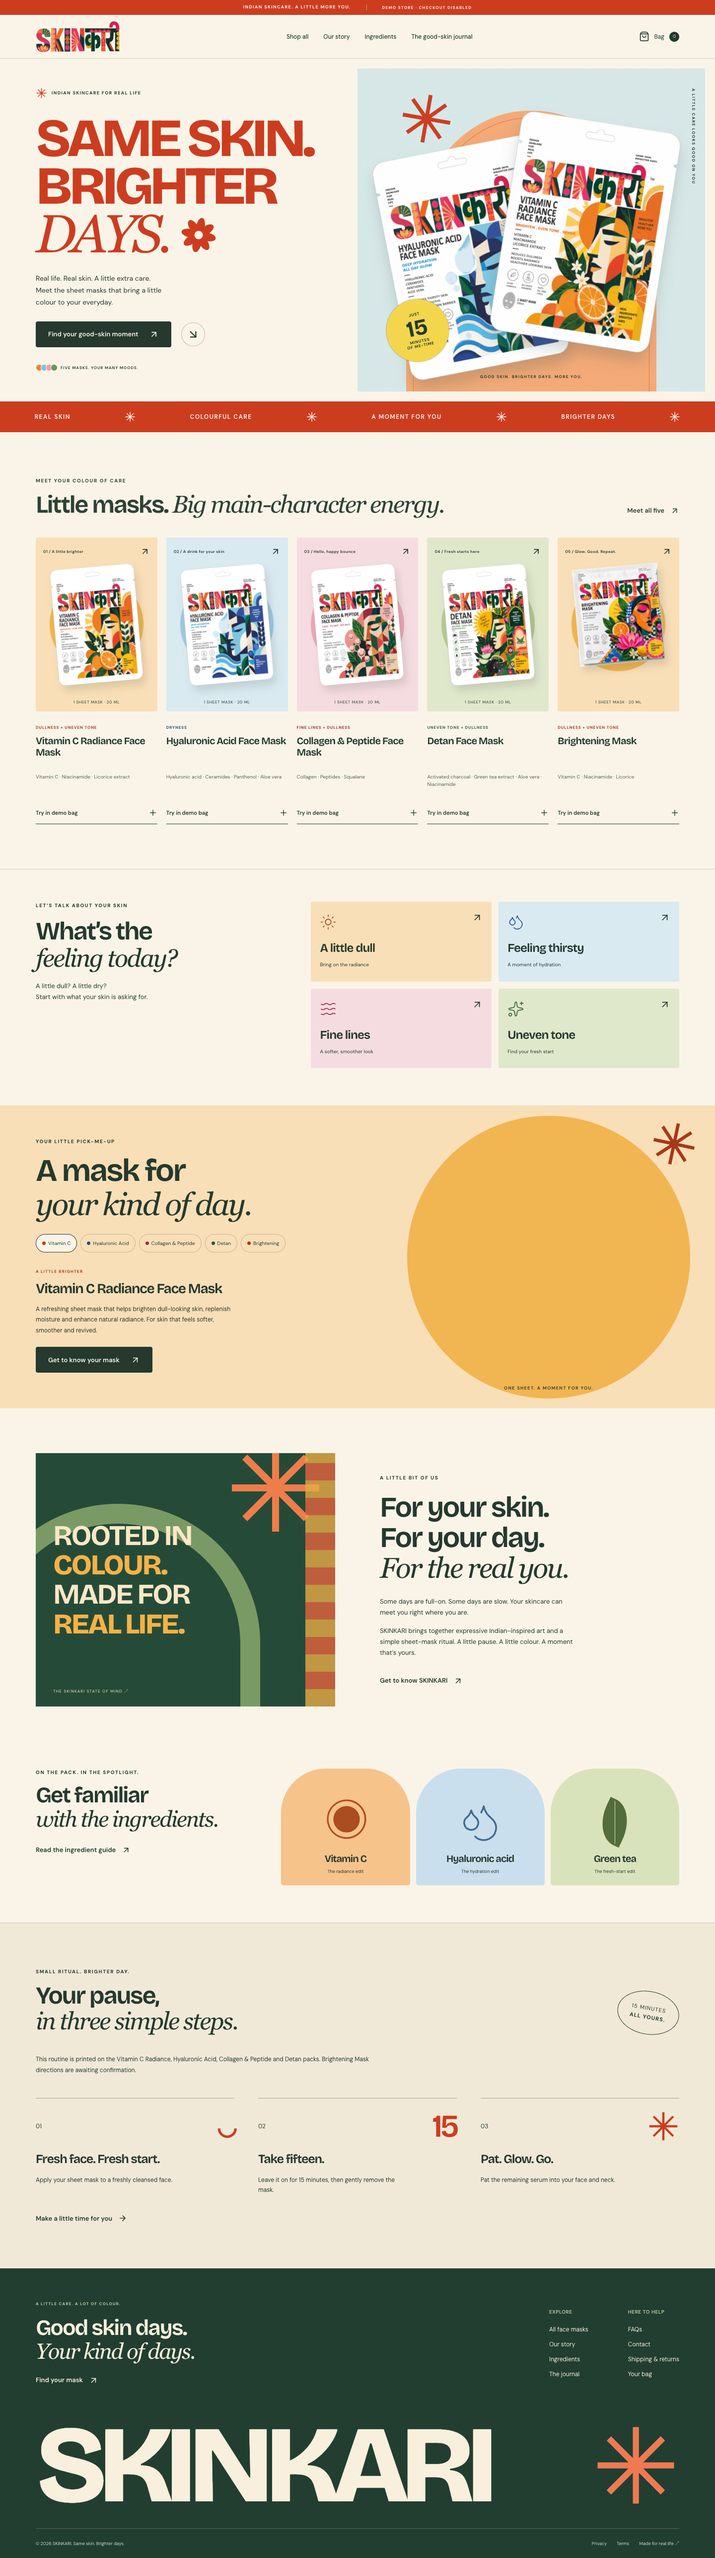
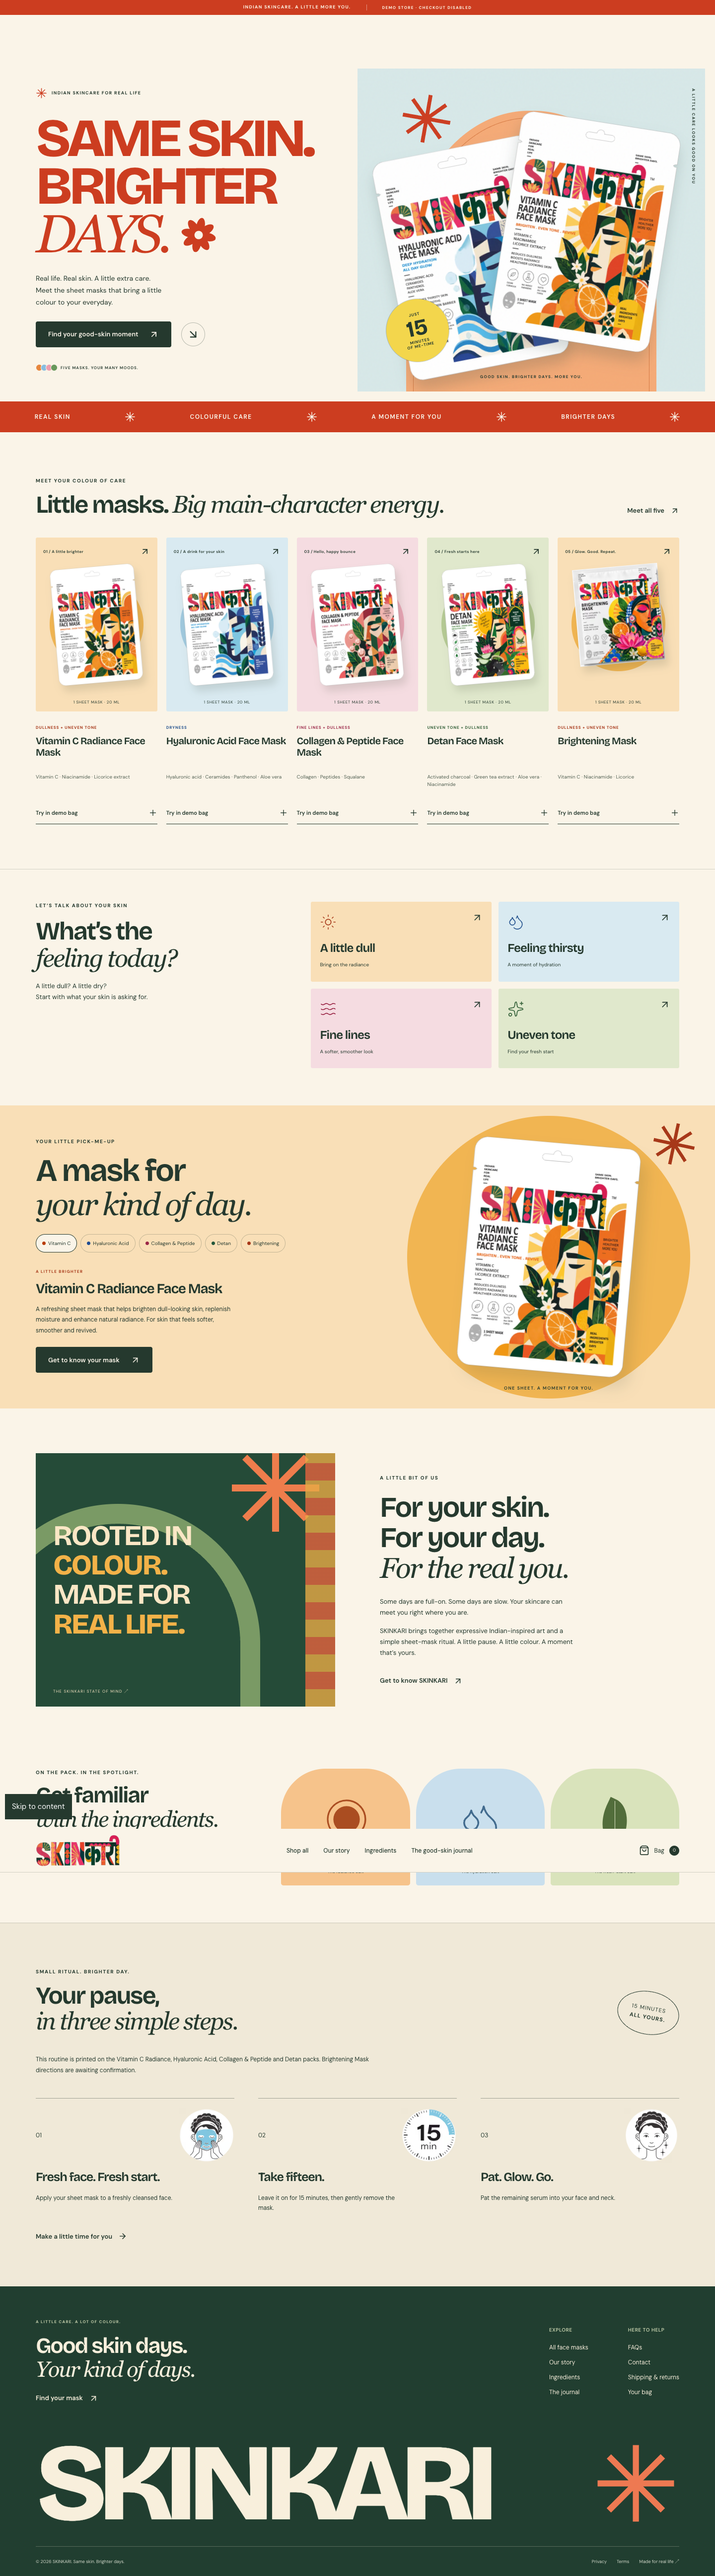
Use original packaging artwork for the three-step routine

diff --git a/scripts/extract-ritual-icons.swift b/scripts/extract-ritual-icons.swift
@@ -1,0 +1,79 @@
+import Foundation
+import PDFKit
+import AppKit
+
+// Extract the actual printed directions artwork, not a redrawn approximation.
+// Run from the repository root on macOS, then run optimize-ritual-icons.mjs.
+let root = URL(fileURLWithPath: FileManager.default.currentDirectoryPath)
+let source = root.appendingPathComponent(
+    "reference/products/HYALURONIC ACID FACE SHEET MASK_SKINKARI_231026.pdf"
+)
+let destination = root.appendingPathComponent("public/images/ritual", isDirectory: true)
+try FileManager.default.createDirectory(at: destination, withIntermediateDirectories: true)
+
+guard let document = PDFDocument(url: source), let page = document.page(at: 0) else {
+    fatalError("Cannot open the source packaging PDF: \(source.path)")
+}
+
+// Measurements are PDF points from the page's top-left corner. The first and
+// third disks are slightly elliptical in the original artwork. Clip just inside
+// their printed white edges to remove the surrounding blue panel cleanly while
+// preserving the white backing, blue mask, timer markings, and facial line art.
+let icons: [(name: String, centerX: CGFloat, radiusX: CGFloat)] = [
+    ("apply-mask", 511.05, 16.25),
+    ("wait-fifteen", 610.60, 16.20),
+    ("pat-serum", 710.15, 15.65),
+]
+let centerFromTop: CGFloat = 272.55
+let radiusY: CGFloat = 15.80
+let cropSize: CGFloat = 34
+let pixelSize = 512
+let scale = CGFloat(pixelSize) / cropSize
+
+for icon in icons {
+    let centerY = page.bounds(for: .mediaBox).height - centerFromTop
+    let crop = CGRect(
+        x: icon.centerX - cropSize / 2,
+        y: centerY - cropSize / 2,
+        width: cropSize,
+        height: cropSize
+    )
+    guard let bitmap = NSBitmapImageRep(
+        bitmapDataPlanes: nil,
+        pixelsWide: pixelSize,
+        pixelsHigh: pixelSize,
+        bitsPerSample: 8,
+        samplesPerPixel: 4,
+        hasAlpha: true,
+        isPlanar: false,
+        colorSpaceName: .deviceRGB,
+        bitmapFormat: [],
+        bytesPerRow: pixelSize * 4,
+        bitsPerPixel: 32
+    ), let graphics = NSGraphicsContext(bitmapImageRep: bitmap) else {
+        fatalError("Cannot create the image canvas for \(icon.name)")
+    }
+
+    NSGraphicsContext.saveGraphicsState()
+    NSGraphicsContext.current = graphics
+    let context = graphics.cgContext
+    context.clear(CGRect(x: 0, y: 0, width: pixelSize, height: pixelSize))
+    context.setShouldAntialias(true)
+    context.scaleBy(x: scale, y: scale)
+    context.translateBy(x: -crop.minX, y: -crop.minY)
+    context.addEllipse(in: CGRect(
+        x: icon.centerX - icon.radiusX,
+        y: centerY - radiusY,
+        width: icon.radiusX * 2,
+        height: radiusY * 2
+    ))
+    context.clip()
+    page.draw(with: .mediaBox, to: context)
+    NSGraphicsContext.restoreGraphicsState()
+
+    guard let png = bitmap.representation(using: .png, properties: [:]) else {
+        fatalError("Cannot encode \(icon.name)")
+    }
+    try png.write(to: destination.appendingPathComponent("\(icon.name).png"))
+    print("\(icon.name).png: \(pixelSize)×\(pixelSize), \(png.count) bytes")
+}

diff --git a/src/app/page.tsx b/src/app/page.tsx
@@ -1,4 +1,5 @@
 import Link from "next/link";
+import Image from "next/image";
 import {
   ArrowRight,
   ArrowUpRight,
@@ -237,26 +238,32 @@ export default async function Home() {
               n: "01",
               title: "Fresh face. Fresh start.",
               text: "Apply your sheet mask to a freshly cleansed face.",
-              icon: "◡",
+              image: "/images/ritual/apply-mask.webp",
             },
             {
               n: "02",
               title: "Take fifteen.",
               text: "Leave it on for 15 minutes, then gently remove the mask.",
-              icon: "15",
+              image: "/images/ritual/wait-fifteen.webp",
             },
             {
               n: "03",
               title: "Pat. Glow. Go.",
               text: "Pat the remaining serum into your face and neck.",
-              icon: <BrandSpark />,
+              image: "/images/ritual/pat-serum.webp",
             },
           ].map((step) => (
             <Reveal className="ritual-step" key={step.n}>
               <div className="ritual-step-top">
                 <span>{step.n}</span>
                 <span className="ritual-icon" aria-hidden="true">
-                  {step.icon}
+                  <Image
+                    src={step.image}
+                    alt=""
+                    width={512}
+                    height={512}
+                    sizes="(max-width: 600px) 88px, 112px"
+                  />
                 </span>
               </div>
               <h3>{step.title}</h3>

diff --git a/src/app/globals.css b/src/app/globals.css
@@ -968,12 +968,16 @@ p {
   font-size: 12px;
 }
 .ritual-icon {
-  font-size: 64px;
-  font-family: var(--display);
-  line-height: 1;
-  color: var(--orange);
-  font-weight: 600;
-  letter-spacing: -0.08em;
+  display: block;
+  width: 112px;
+  aspect-ratio: 1;
+  flex-shrink: 0;
+}
+.ritual-icon img {
+  display: block;
+  width: 100%;
+  height: 100%;
+  object-fit: contain;
 }
 .ritual-step h3 {
   font-size: 25px;
@@ -2554,7 +2558,8 @@ details[open] > summary:after {
     position: relative;
     padding-top: 18px;
     border-top: 1px solid var(--line);
-    padding-right: 80px;
+    padding-right: 108px;
+    min-height: 128px;
   }
   .ritual-step-top {
     border: 0;
@@ -2567,9 +2572,9 @@ details[open] > summary:after {
   }
   .ritual-icon {
     position: absolute;
-    right: 10px;
-    top: 25px;
-    font-size: 54px;
+    right: 0;
+    top: 22px;
+    width: 88px;
   }
   .ritual-step h3 {
     font-size: 26px;

diff --git a/docs/RITUAL-ARTWORK.md b/docs/RITUAL-ARTWORK.md
@@ -1,0 +1,20 @@
+# Routine illustration sources
+
+The three routine illustrations are extracted directly from the “Directions to use” panel on page 1 of `reference/products/HYALURONIC ACID FACE SHEET MASK_SKINKARI_231026.pdf`.
+
+| Asset                                    | Original illustration                                       |
+| ---------------------------------------- | ----------------------------------------------------------- |
+| `public/images/ritual/apply-mask.webp`   | Hands applying a blue sheet mask to a freshly cleansed face |
+| `public/images/ritual/wait-fifteen.webp` | Circular timer marked “15 min”                              |
+| `public/images/ritual/pat-serum.webp`    | Face and neck with sparkle marks after serum application    |
+
+Each image is 512 × 512 pixels. The original white disk, colours, and line art are preserved; the surrounding blue panel, step labels, and captions are excluded. An elliptical clipping path follows the printed white disk with a slight inset to prevent a blue fringe. The exterior is transparent. These are original packaging assets, not generated or redrawn illustrations.
+
+To reproduce on macOS, run from the repository root:
+
+```sh
+swift -module-cache-path /tmp/skinkari-swift-module-cache scripts/extract-ritual-icons.swift
+node scripts/optimize-ritual-icons.mjs
+```
+
+The Swift script renders the source PDF artwork at its final resolution using PDFKit. The Node script makes lossless WebP derivatives. The PNG source crops remain alongside them for inspection and reproduction.

diff --git a/docs/QA-REPORT.md b/docs/QA-REPORT.md
@@ -45,6 +45,8 @@ Browser QA caught and resolved a local host/origin mismatch that blocked mutatio
 
 User screenshots revealed that Apple devices rendered the decorative eight-spoked text character as a green emoji. All instances now use one shared, font-independent SVG with the existing section colors and responsive sizes.
 
+The three routine symbols were subsequently replaced with the original apply-mask, 15-minute timer and after-care illustrations from the Hyaluronic Acid packaging. Production build, ESLint and TypeScript passed. Chrome at 1440, 390 and 320 px, and WebKit at 1024 and 390 px, loaded all three illustrations without text overlap, horizontal overflow or browser errors. All five homepage axe scans passed. Desktop/mobile routine previews and the full homepage screenshots were refreshed; extraction details are in `RITUAL-ARTWORK.md`.
+
 ## Verification limits and launch requirements
 
 - No real Shopify store credentials were supplied. Live products, merchant availability, shipping/tax/discount calculations and checkout must be tested on the configured merchant store before claiming a working purchase flow.
